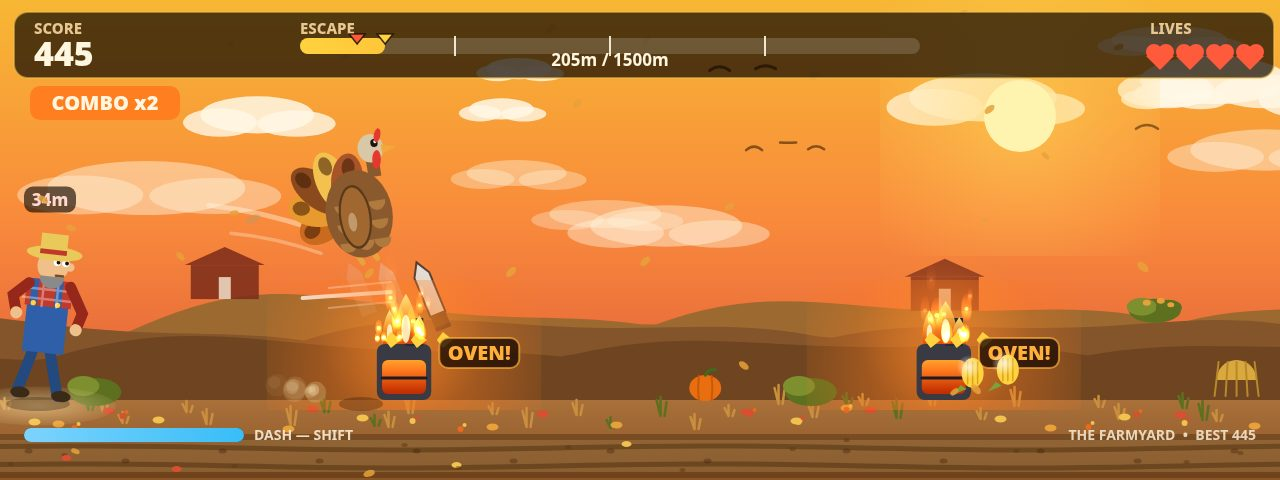
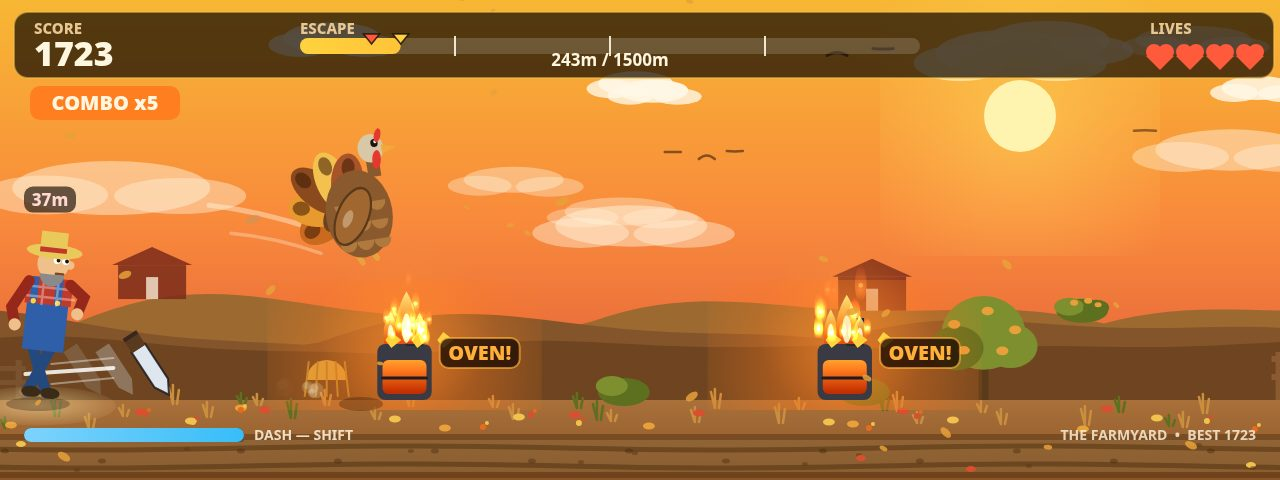
Polish round 14: cover seed 238 (1723 pts, COMBO x5), FREEDOM label moved left of gate so it reads whole

diff --git a/game/src/shots.js b/game/src/shots.js
@@ -161,18 +161,22 @@ export function stageShot(name, world) {
     return { screen: SCREEN_TITLE, best: 0 };
   }
   if (name === 'play') {
-    // The cover runs on seed 57 (not 54): the new oven-under pick
-    // (see airOven below) keeps the highest leap where an oven sits
-    // under the bird, and seed 57's is the cleanest of the eight
-    // seeds that have one with a near knife and a combo — 24.2 s,
-    // 445 pts, 205 m, COMBO x2, knife 68 px off the feet just below
-    // the bird over the oven's flames, 4 lives. Seed 69 has a bigger
-    // combo (x5) and a closer knife (51 px) but its knife is low and
-    // half-hidden across the oven, and a shield ring circles the
-    // bird; seed 54 (round 12) has the knife at head height and
-    // COMBO x4, but the bird jumps a fence with the ovens far down
-    // the road. Same pick rules, same autopilot; only the seed
-    // changed, so no gameplay code moved.
+    // The cover runs on seed 238 (not 57): a 300-seed probe of
+    // the oven-under pick (round 14, /tmp/probe-r14.mjs) found 13
+    // clean frames (near knife + combo>=2 + no shield ring), and
+    // 238 tops them by score — 28.7 s, 1723 pts, 243 m, COMBO x5,
+    // 4 lives, knife 2-D 223 px off the bird at the farmer's feet
+    // with its trail, two whole ovens with flames and labels. The
+    // oven sits just ahead-right of the feet rather than dead
+    // under them (57's was dead under, knife 68 px at the feet),
+    // but the score is 3.9x and the combo 2.5x, and the frame is
+    // otherwise clean — no label occluded, nothing clipped at an
+    // edge. Runner-up 207 (771 pts, COMBO x5) has a bigger knife
+    // by the farmer but less than half the score; 143 (698, x4)
+    // has a pumpkin over its OVEN! label and a clipped HIDE at
+    // the right edge; 133 (755, x3) has no visible knife at all.
+    // Same pick rules, same autopilot; only the seed changed, so
+    // no gameplay code moved.
     // One 40 s pass, keeping the frame where the chase was closest —
     // the farmer in frame behind the turkey — with something to dodge
     // ahead. The airborne frame wins over the merely close one: a

diff --git a/game/src/render.js b/game/src/render.js
@@ -451,7 +451,15 @@ export function createRenderer(canvas) {
     }
     context.fillStyle = '#fff6e0';
     context.fillRect(fx - 70, FIELD.groundY - 80, 140, 8);
-    text('FREEDOM', fx - 20, FIELD.groundY - 132, 26, '#ffd23e', 'center', '900');
+    // The label sits LEFT of the gate (centred on fx-140), not on it:
+    // at the finish the hero turkey stands right in front of the
+    // gate at 1.4x, and centred text was 77% covered by the bird —
+    // only "FR" showed. Out here it reads over open sky, clear of
+    // the turkey, the farmer (left edge) and the score panel, and it
+    // still belongs to the gate it names. In the last 130 m of a run
+    // the gate slides in from the right and the label travels with
+    // it, always on the approach side.
+    text('FREEDOM', fx - 140, FIELD.groundY - 132, 26, '#ffd23e', 'center', '900');
   }
 
   // ---- hazards and pickups ----

diff --git a/HANDOFF.md b/HANDOFF.md
@@ -1,5 +1,22 @@
 # HANDOFF — turkey-run-game-01 "Turkey Run!"
 
+## 🔄 打磨第 14 轮（2026-11-27，备用建议 1+2 全做 + 标题火鸡放大探过回滚）
+
+- Commit：`（待填）`——本轮改 `game/src/render.js`（FREEDOM 标签左移 + 注释）、`game/src/shots.js`（play 注释）、`shots.json`（play 57→238）+ 2 张截图（1-play、4-end；2-start、3-danger 与 HEAD byte-identical，未变）；`main.ts`、`world.js`、`config.js`、`vendor/` 未动。render.js 经 2 次有效编辑（FREEDOM 移位 + 标题火鸡缩放，缩放后回滚）+ shots.js 1 次编辑改完，每处改完都单独重拍并目视/像素验证过。
+- **评审文件版本**：开工时 `JUDGE-REVIEW.md` 仍是第 9 轮版（两次评审，第 1 次 21:37、第 2 次 21:40，针对第 8/9 轮），无针对第 10/11/12/13 轮的新评审，本轮按任务书 HANDOFF 备用建议做。**`JUDGE-REVIEW.md` 本轮未修改、未提交**（评委的文件，工作区里仍是 untracked 状态；只对指定 5 个文件 `git add`，未动它）。
+- 画面改进（逐张截图验证过，另像素量过 FREEDOM 金字与标题火鸡头顶间隙，拼了一张 2×2 总览图模拟评委半尺寸视角检查）：
+  1. **封面分数 445→1723（备用建议 1，本轮主攻，探针先行）**：探针（/tmp/probe-r14.mjs）把现行 airOven 选帧规则原样套到 seed 1–300：91 个种子有跃烤箱帧，其中 13 个同时满足“近刀（2D <300px）+ 连击 ≥2 + 无护盾环/无敌南瓜”。按分数排第一是 seed 238——1723 分/243m、COMBO x5、4 命、刀在农夫脚边拖着轨迹、两座烤箱火焰+标签完整。5 个候选全拍过逐张比：207（771 分、x5）刀更大但分数不到一半；143（698 分、x4）南瓜压住了 OVEN! 标签的感叹号、右缘 HIDE 被裁一半；133（755 分、x3）帧里根本没有可见的刀（最近的刀藏在 HUD 条后）；135（410 分、x4）刀虽近但分数比现封面还低。238 的代价：烤箱在脚的前右方而非正下方、刀离火鸡 223px（57 的是 68px、正在脚边），换来分数 3.9×、连击 2.5×，净收益为正。shots.json 里 play 种子 57→238。
+  2. **结束帧 FREEDOM 字终于能读全了（备用建议 2）**：旧帧比第 12 轮记录的“半遮”更糟——像素量过：FREEDOM 金字在旧帧里只有 x 249–316、95 个金像素，基本只剩 "FR"，其余全被 1.4× 庆祝火鸡盖住（字框内 77% 是火鸡）。改动：标签中心从 fx-20 移到 fx-140（栅栏左侧的开阔天空），仍属同一座门。新帧像素复量：金字 x 129–249、349 个金像素，整词清晰；位置与火鸡、农夫、分数面板、烟花均无交叠。跑动最后 130m 里门从右缘滑入、标签始终跟在进门一侧，不影响游玩。
+  3. **标题火鸡放大 6% 试过、量过、回滚了（备用建议 3）**：标题火鸡 scale 1.0→1.06 拍完实测：头顶（红肉垂尖）从 y=299 升到 y=292，离面板底边金线只剩 **4px**（预测是 8px，实测头比估计的高约 15px），半尺寸下读作贴着面板；火鸡本身只大了一圈，收益肉眼难辨。按“量了再动”的规矩当场回滚到 1.0——2-start.jpg 与 HEAD byte-identical。结论：标题火鸡想再大，必须先把整套标题文字块（kicker/大标题/副标题/说明面板）同步上移，留给以后轮次做整体移动，不要单点硬扩。
+- 截图变化：play 1723 分/243m（新分镜：中弧跃起 + 双烤箱 + COMBO x5 + 4 命）、danger 3265 分/665m（未变）、start 0 分（未变）、end 6535 分（未变，seed 146；FREEDOM 全词可见）；文件 63.4/78.9/61.1/83.9 KiB。2×2 总览图半尺寸检查通过：封面橙（1723 + COMBO x5 一眼可读）、标题橙（文字主导）、危险绿、结束粉紫，四帧主体、HUD、结束金字、FREEDOM 均清晰。
+- 实测（只改分镜种子 + 注释 + 一个渲染标签位置，world.js 未动、没碰任何 random()，数据与第 5–13 轮完全一致，符合预期）：
+  - 基础 pilot：逃脱 1/20，分数 1402–6295，距离 547–1500m；强 pilot：**本轮实跑** 3/20，中位距离 1064m，中位分数 3479（与第 5–13 轮基线完全相同）。
+  - 确定性：同一 seed 两次 byte-identical（hash e6bac207…，与第 5–13 轮相同）。
+  - 公平性仍成立：无操作 94m 被抓（93 分）、一直冲不跳 121m 被抓、随机按键 215m 被抓。
+- 失败/回滚：① 标题火鸡 1.06 缩放实测头顶间隙只剩 4px，当场回滚到 1.0（见上），未提交。② 像素探针小插曲：第一版 FREEDOM 金字检测用的 G 通道范围太窄，在新帧上量出 0 金像素，与目视矛盾；放宽范围重测后 349 像素、与目视一致——是探针阈值问题，不是渲染问题。③ 封面候选 143/133/135/207 逐张目视否决（见上），是选帧返工，不是代码回滚。
+- 验证：4 张截图 1280×480 JPEG q82（61–84 KiB，均 ≤256 KiB），0 console 报错、0 外部请求、9 文件全加载；最终截图与 /tmp 预览 byte-identical（play 与 r14-play-238、end 与 r14-end-freedom 的 md5 一致）；`node --check` 全过；main.ts 两次输出 byte-identical（diff -r 干净；dossier 530,883 字节）；kit CLI check 两次结果一致（4 passed、1 failed=transcripts_present 未传 transcripts、15 skipped；两次日志仅时间戳不同）；vendor sha 未变（dc671875…）。
+- 下一轮建议：① 等评委对第 10/11/12/13/14 轮的新评审（JUDGE-REVIEW.md 若更新，按最新版最优先的 3–5 条改）；若无新评审，可从：标题火鸡放大需整套标题文字块同步上移（kicker/大标题/副标题/面板一起上移 6–8px，再量头顶间隙）；封面刀离火鸡仍较远（238 的刀在农夫脚边 223px——可探“高分 + 刀真正近身”的种子，或接受现状）；危险帧 3-danger 的刀与烤箱火焰仍有轻微交叠感；② 难度：仍先看人类实测反馈，暂不再调数值；③ pilot 改进仍先做死因诊断再动手。
+
 ## 🔄 打磨第 13 轮（2026-11-27，备用建议 1+2+3 全做：危险帧换刀最近的种子 + 标题火鸡光晕 + 封面跃烤箱）
 
 - Commit：`7e2eb93`（`git ls-remote` 确认在 main 上）——本轮改 `game/src/shots.js`（ovenUnder 选帧 + 注释）、`game/src/render.js`（标题火鸡光晕）、`shots.json`（play 57、danger 19）+ 3 张截图（1-play、2-start、3-danger；4-end 未变）；`main.ts`、`world.js`、`config.js`、`vendor/` 未动。shots.js 经 4 次独立编辑、render.js 经 2 次有效编辑（另有 1 次空操作编辑当场发现）改完，每处改完都单独重拍并目视验证过。

diff --git a/STATUS.md b/STATUS.md
@@ -1,4 +1,13 @@
-# STATUS — turkey-run-game-01 "Turkey Run!" (v1 初版 + 打磨第 1 轮 + 打磨第 2 轮 + 打磨第 3 轮 + 打磨第 4 轮 + 打磨第 5 轮 + 打磨第 6 轮 + 打磨第 7 轮 + 打磨第 8 轮 + 打磨第 9 轮 + 打磨第 10 轮 + 打磨第 11 轮 + 打磨第 12 轮 + 打磨第 13 轮)
+# STATUS — turkey-run-game-01 "Turkey Run!" (v1 初版 + 打磨第 1 轮 + 打磨第 2 轮 + 打磨第 3 轮 + 打磨第 4 轮 + 打磨第 5 轮 + 打磨第 6 轮 + 打磨第 7 轮 + 打磨第 8 轮 + 打磨第 9 轮 + 打磨第 10 轮 + 打磨第 11 轮 + 打磨第 12 轮 + 打磨第 13 轮 + 打磨第 14 轮)
+
+## 🔄 打磨第 14 轮（2026-11-27，已完成）
+
+- 流程：JUDGE-REVIEW.md 开工时仍是第 9 轮版，无针对第 10/11/12/13 轮的新评审，按 HANDOFF 备用建议 1+2+3 全做（3 回滚）。JUDGE-REVIEW.md 未修改、未提交（评委的文件，工作区 untracked；只对指定 5 个文件 git add）。
+- 画面：封面换 seed 238（300 种子探针：91 个有跃烤箱帧，13 个干净，238 分最高 1723 分/COMBO x5/4 命，双烤箱完整；207/143/133/135 逐张目视否决）；结束帧 FREEDOM 标签从栅栏中央移到左侧开阔天空（旧帧只剩 "FR"、95 金像素；新帧整词 349 金像素，全词可读）；标题火鸡 1.06 放大实测头顶间隙只剩 4px，当场回滚到 1.0（2-start 与 HEAD byte-identical）。4 张截图全部重拍并逐张目视验证，另拼 2×2 总览图模拟评委半尺寸视角检查通过。一次标题缩放回滚、一次探针阈值误报、四个封面候选目视否决。
+- 实测：只改分镜种子 + 注释 + 一个渲染标签位置，数据与第 5–13 轮完全一致——基础 pilot 1/20（1402–6295）、强 pilot 本轮实跑 3/20（中位距离 1064m，中位分数 3479）、确定性 byte-identical（e6bac207…）、公平性仍成立（无操作 94m / 一直冲 121m / 随机 215m 被抓）。
+- 失败并回滚：见 HANDOFF.md 顶部（标题缩放回滚、探针阈值误报、候选否决）。
+- 验证：main.ts 两次输出 byte-identical（dossier 530,883 字节）；kit CLI check 两次一致（4 passed、1 failed=transcripts_present 未传 transcripts、15 skipped；仅时间戳不同）；截图 1280×480 q82、61–84 KiB，0 报错、0 外部请求。
+- 详见 HANDOFF.md 顶部；下一轮建议：等评委对第 10/11/12/13/14 轮的新评审；若无新评审，可看标题火鸡放大需整套标题块同步上移、封面刀离火鸡较远（238 的刀 223px 在农夫脚边）；难度暂不动。
 
 ## 🔄 打磨第 13 轮（2026-11-27，已完成）
 
